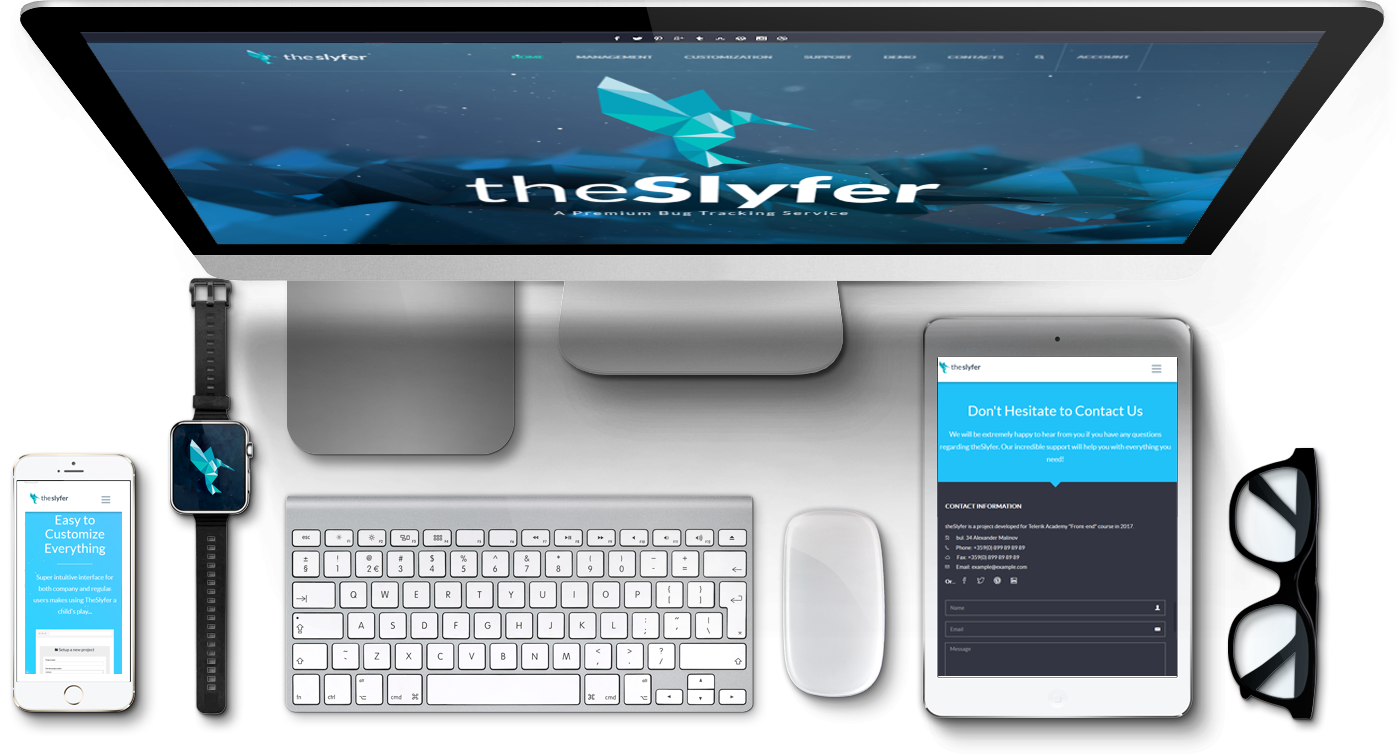
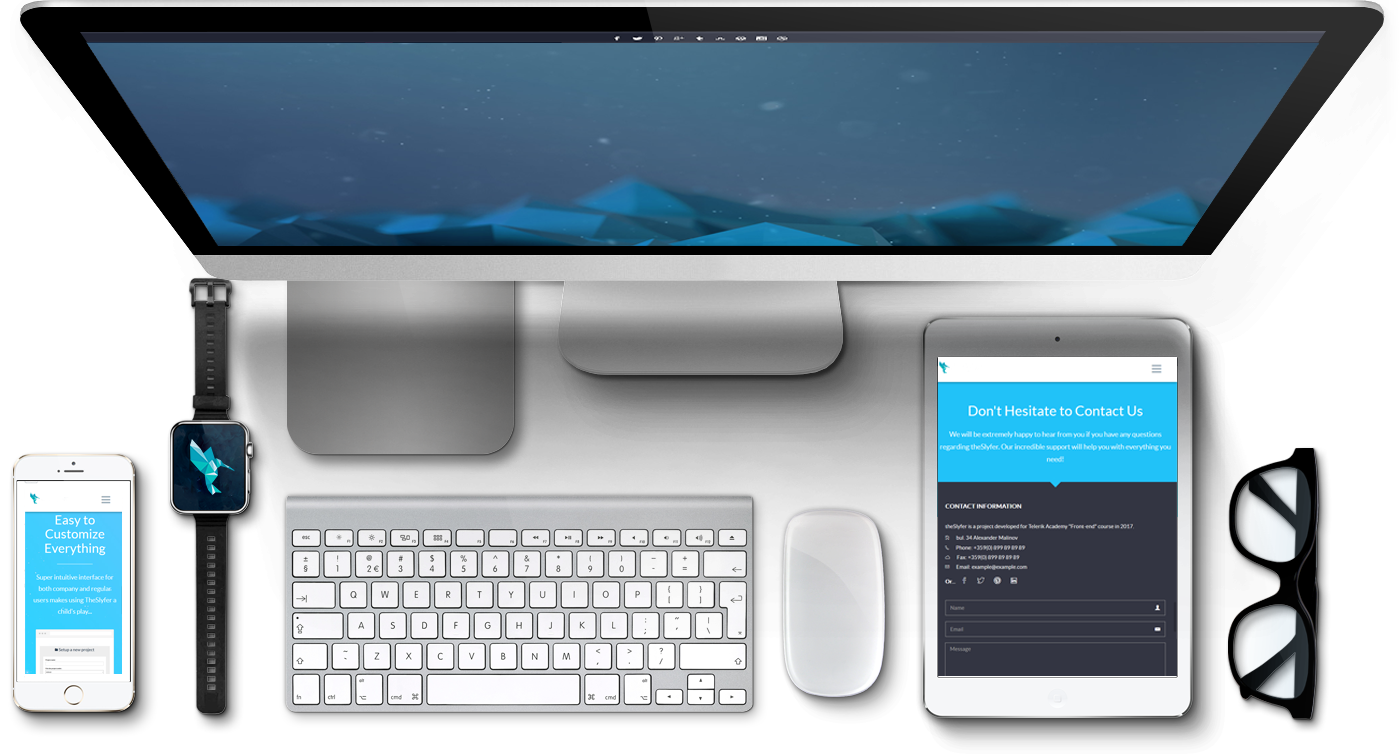
Images Optimization

diff --git a/public/index.html b/public/index.html
@@ -51,7 +51,7 @@
         <div class="bird-logo"></div>
         <div class="title">
             <span>the</span>
-            <span id="slifer">Slifer</span>
+            <span id="slifer">Bugster</span>
             <p>A Premium Bug Tracking Service</p>
         </div>
     </div>
@@ -103,7 +103,7 @@
             </div>
             <div class="border"></div>
             <div class="description">
-                TheSlyfer provides you with a powerful admin panel, where you can manage and track your company, teams and projects...
+                TheBugster provides you with a powerful admin panel, where you can manage and track your company, teams and projects...
             </div>
             <div>
                 <img src="./css/Media/slyfer-mac.png">
@@ -116,7 +116,7 @@
                 </div>
                 <div class="border"></div>
                 <div class="description">
-                    Super intuitive interface for both company and regular users makes using TheSlyfer a child's play...
+                    Super intuitive interface for both company and regular users makes using TheBugster a child's play...
                 </div>
                 <div class="customization-images-wrapper">
                     <div>
@@ -164,7 +164,7 @@
             </div>
             <div class="border"></div>
             <div class="description">
-                TheSlyfer will always look good even if you are viewing it form smartphone, tablet or any other device...
+                TheBugster will always look good even if you are viewing it form smartphone, tablet or any other device...
             </div>
             <div>
                 <img src="./css/Media/desk_slyfer.png">
@@ -177,7 +177,7 @@
                     experience
                 </h2>
                 <p>
-                    Create a custom environment and test theSlyfer
+                    Create a custom environment and test theBugster
                 </p>
                 <div class="btn">
                     <a href="#">start a demo</a>
@@ -193,7 +193,7 @@
                     </h2>
                 </div>
                 <div class="description">
-                    We will be extremely happy to hear from you if you have any questions regarding theSlyfer. Our incredible support will help you with everything you need!
+                    We will be extremely happy to hear from you if you have any questions regarding theBugster. Our incredible support will help you with everything you need!
                 </div>
             </div>
             <div class="contact-us-form">
@@ -254,7 +254,7 @@
             </div>
             <div class="copyright">
                 <p>
-                    Copyright 2017 <span>theSlyfer</span> | All Rights Reserved
+                    Copyright 2017 <span>theBugster</span> | All Rights Reserved
                 </p>
             </div>
         </div>

diff --git a/public/css/styles.css b/public/css/styles.css
@@ -100,8 +100,8 @@
   .sidenav a {
     padding: 8px 8px 8px 32px;
     text-decoration: none;
-    font-size: 25px;
-    color: #818181;
+    font-size: 20px;
+    color: #fff;
     display: block;
     transition: 0.3s; }
   .sidenav .closebtn {
@@ -161,7 +161,8 @@
     max-width: 800px;
     margin-top: 25px; }
   .admin-panel img, .customization img, .design img, .contact-us img {
-    width: 100%; }
+    width: 100%;
+    max-width: 1200px; }
 
 .customization {
   height: 865px;

diff --git a/public/sass/components/header.sass b/public/sass/components/header.sass
@@ -103,8 +103,8 @@
     a
         padding: 8px 8px 8px 32px
         text-decoration: none
-        font-size: 25px
-        color: #818181
+        font-size: 20px
+        color: #fff
         display: block
         transition: 0.3s
     .closebtn

diff --git a/public/sass/components/admin-panel.sass b/public/sass/components/admin-panel.sass
@@ -16,6 +16,7 @@
         margin-top: 25px
     img
         width: 100%
+        max-width: 1200px
 
 .customization
     @extend .admin-panel
